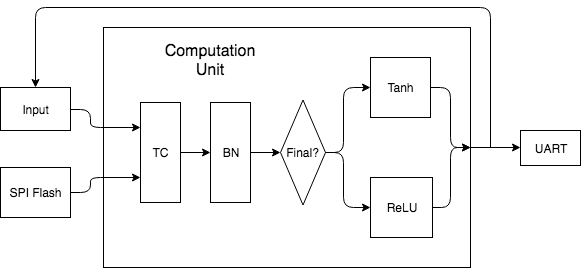
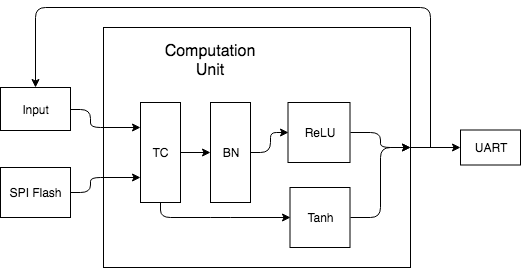
Update

diff --git a/chapters/hardware-architecture.tex b/chapters/hardware-architecture.tex
@@ -93,4 +93,13 @@ input buffer. The final result is sent to computer via \gls{uart} (serial port).
   \label{fig:computation_unit}
 \end{figure}
 
+The input of the TC module are quantized 8-bit integers, while the output of the TC module are 32-bit
+integers, which are input to the BN module. The BN first dequantizes the 32-bit input to 32-bit
+single-precision floating-point numbers according to IEEE 754 standard, then the computation is carried
+out in floating-point and the results are feed to the ReLU module, which simply sets negative values to
+$0.0$ and then quantizes the output to 8-bit integers again and overwrites the input buffer with the
+results. When the flow reaches the final Tanh module, the 32-bit input integers are dequantized just as the
+BN module, $tanh$ is then performed on the floating-point numbers, and the final floating-point result is
+sent to the computer through \gls{uart}, which can then be displayed with a simple conversion script.
+
 \clearpage %force the next chapter to start on a new page. Keep that as the last line of your chapter!
